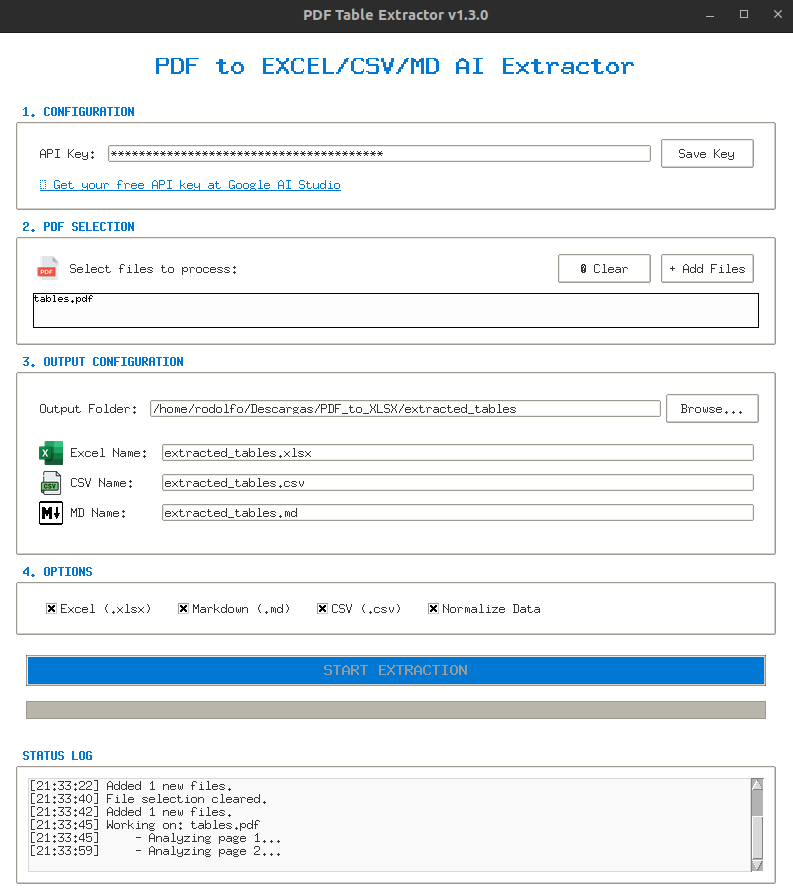
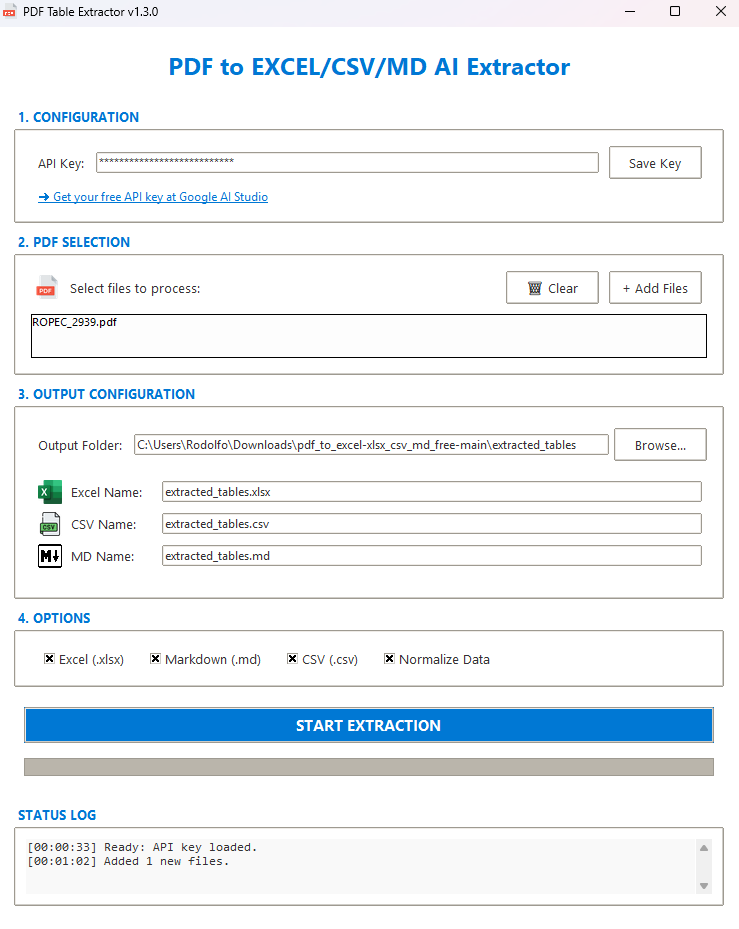
api errors

Changed region(s): [[0.0, 0.0938, 0.9959, 1.0], [0.0, 0.0, 1.0, 0.0938]]

diff --git a/gui_app.py b/gui_app.py
@@ -47,6 +47,7 @@ class PDFToXLSXGUI:
         self.save_md = tk.BooleanVar(value=False)
         self.save_csv = tk.BooleanVar(value=False)
         self.clean_data = tk.BooleanVar(value=True)
+        self._has_error = False  # Flag to track if errors occurred during processing
 
         # Load Icons
         self.icons = {}
@@ -256,6 +257,13 @@ class PDFToXLSXGUI:
         if not self.api_key.get().strip():
             messagebox.showerror("Error", "Gemini API Key is required.")
             return
+        
+        # Check API Key length
+        api_key_val = self.api_key.get().strip()
+        if len(api_key_val) != 39:
+            messagebox.showwarning("Error", "Incorrect API Key length. The key must be 39 characters long.\n\nLongitud de API incorrecta. La clave debe tener 39 caracteres.")
+            return
+
         if not self.pdf_files:
             messagebox.showerror("Error", "Please add at least one PDF file.")
             return
@@ -281,6 +289,7 @@ class PDFToXLSXGUI:
     def _process_logic(self):
         key = self.api_key.get().strip()
         out_dir = self.output_dir.get().strip()
+        self._has_error = False # Reset error flag
         
         try:
             client = genai.Client(api_key=key)
@@ -354,19 +363,32 @@ class PDFToXLSXGUI:
                 
                 except Exception as e:
                     self._log(f"ERROR: {file_name} -> {e}")
+                    if "400" in str(e) or "429" in str(e):
+                        raise e # Re-raise to show the error window and stop completely
                 
                 self.root.after(0, self._update_progress, i + 1)
 
             if writer:
                 writer.close()
-                self._log(f"Results consolidated in EXCEL: {excel_filename}")
+                if not self._has_error:
+                    self._log(f"Results consolidated in EXCEL: {excel_filename}")
 
-            self._log("SYSTEM: All tasks completed.")
-            self.root.after(0, lambda: messagebox.showinfo("Process Finished", "The extraction process has completed successfully!"))
+            if not self._has_error:
+                self._log("SYSTEM: All tasks completed. / Todas las tareas completadas.")
+                self.root.after(0, lambda: messagebox.showinfo("Process Finished / Proceso Finalizado", "The extraction process has completed successfully!\n\n¡El proceso de extracción ha finalizado con éxito!"))
+            else:
+                self._log("SYSTEM: Process finished with errors. / Proceso finalizado con errores.")
             
         except Exception as e:
             self._log(f"CRITICAL ERROR: {e}")
-            messagebox.showerror("System Error", f"The process encountered a fatal error: {e}")
+            if "400" in str(e):
+                msg = "The API key entered is incorrect (Code 400). Please verify it and try again.\n\nLa API Key ingresada no es correcta (Código 400). Por favor, verifíquela e inténtelo de nuevo."
+                messagebox.showerror("API Key Error / Error de API Key", msg)
+            elif "429" in str(e):
+                msg = "The daily API limit has been exceeded (Code 429).\n\nSe ha excedido el límite de la API diario (Código 429)."
+                messagebox.showerror("Quota Error / Error de Cuota", msg)
+            else:
+                messagebox.showerror("System Error / Error del Sistema", f"The process encountered a fatal error / El proceso encontró un error fatal: {e}")
         
         self.root.after(0, lambda: self.start_btn.config(state="normal"))
 
@@ -385,7 +407,7 @@ class PDFToXLSXGUI:
             If no tables are found, return an empty string.
             """
             
-            max_retries = 3
+            max_retries = 1
             md_text = ""
             for attempt in range(max_retries):
                 try:
@@ -397,8 +419,17 @@ class PDFToXLSXGUI:
                         md_text = response.text
                     break
                 except Exception as e:
-                    if "429" in str(e) and attempt < max_retries - 1:
-                        time.sleep((attempt + 1) * 10)
+                    if "400" in str(e):
+                        self._log(f"      ! Incorrect API Key (Code 400) / API Key incorrecta (Código 400).")
+                        self._has_error = True
+                        raise e # Re-raise to stop the loop for this file or process
+                    elif "429" in str(e):
+                        if attempt < max_retries - 1:
+                            time.sleep((attempt + 1) * 10)
+                        else:
+                            self._log(f"      ! Daily quota exceeded (Code 429) / Límite diario excedido (Código 429).")
+                            self._has_error = True
+                            raise e
                     else:
                         raise e
             
@@ -408,6 +439,9 @@ class PDFToXLSXGUI:
                 if not df.empty:
                     return [{"df": df, "md": clean_md}]
         except Exception as e:
+            if "400" in str(e) or "429" in str(e):
+                # Propagate fatal API errors
+                raise e
             self._log(f"      ! Page {page.page_number} error: {e}")
         return []
 
